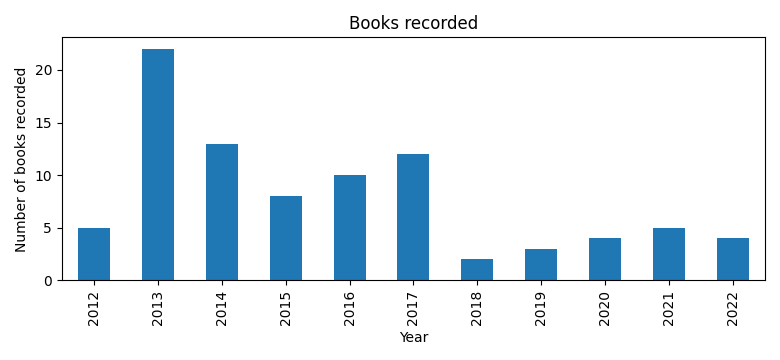
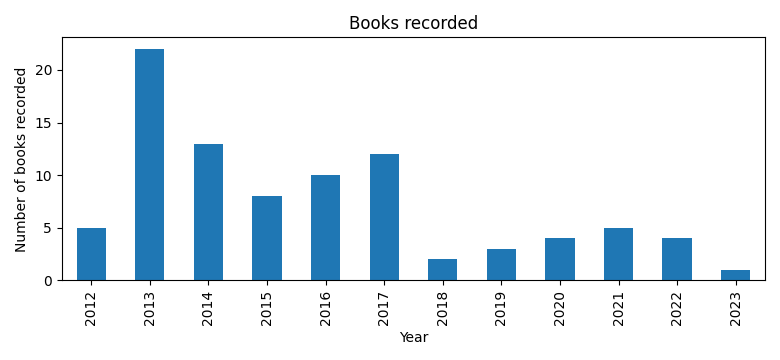
2023

diff --git a/README.md b/README.md
@@ -6,13 +6,16 @@ The most significant events impacting the number of books I read are
 * The birth of my daughers in 2018/01 and 2019/08
 
 ### Statistics
-Total number of books read: 88  
-Books per month: 0.73 (2012/9 to 2022/9)
+Total number of books read: 89  
+Books per month: 0.71 (2012/9 to 2023/1)
 
 ![Books recorded by year](book_recorded.png)
 ![Books read per month](book_read.png)
 
 ### List of books
+*Die Brüder Löwenherz*, Astrid Lindgren  
+Finished: 2023.01.21
+
 *Good Omens*, Neil Gaiman, Terry Pratchett  
 Finished: 2022.09.24
 
